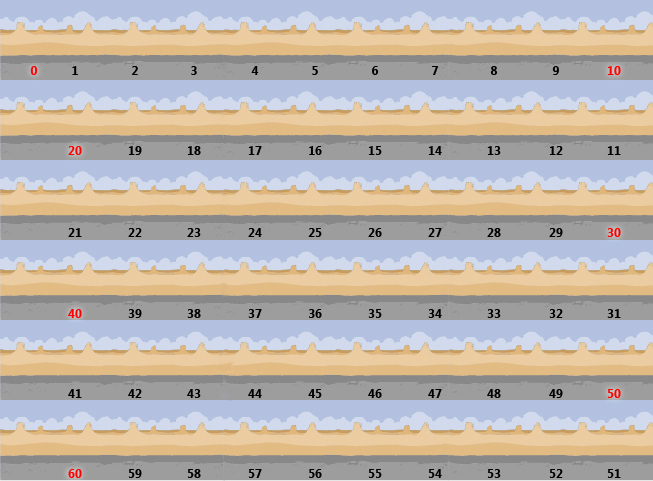
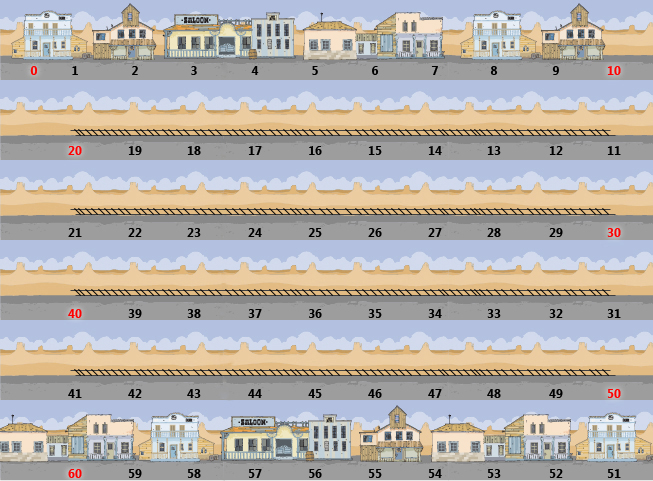
Updates graphics for contextual version.

diff --git a/PersonalContextualMathGame/frmMain.Designer.cs b/PersonalContextualMathGame/frmMain.Designer.cs
@@ -408,11 +408,10 @@ namespace MathGame
             // 
             this.destinationLabel.BackColor = System.Drawing.Color.Transparent;
             this.destinationLabel.Font = new System.Drawing.Font("Segoe UI", 9F, System.Drawing.FontStyle.Bold, System.Drawing.GraphicsUnit.Point, ((byte)(0)));
-            this.destinationLabel.Location = new System.Drawing.Point(21, 529);
+            this.destinationLabel.Location = new System.Drawing.Point(40, 570);
             this.destinationLabel.Name = "destinationLabel";
             this.destinationLabel.Size = new System.Drawing.Size(100, 23);
             this.destinationLabel.TabIndex = 25;
-            this.destinationLabel.Text = "DESTINATION";
             this.destinationLabel.TextAlign = System.Drawing.ContentAlignment.MiddleCenter;
             // 
             // mnuNewGame
@@ -534,7 +533,7 @@ namespace MathGame
             // 
             this.AutoScaleDimensions = new System.Drawing.SizeF(6F, 13F);
             this.AutoScaleMode = System.Windows.Forms.AutoScaleMode.Font;
-            this.ClientSize = new System.Drawing.Size(674, 579);
+            this.ClientSize = new System.Drawing.Size(674, 589);
             this.Controls.Add(this.destinationLabel);
             this.Controls.Add(this.btnCompare);
             this.Controls.Add(this.btnCanI);
@@ -564,8 +563,8 @@ namespace MathGame
             this.Controls.Add(this.BackgroundPicture);
             this.MainMenuStrip = this.menuStrip1;
             this.MaximizeBox = false;
-            this.MaximumSize = new System.Drawing.Size(690, 614);
-            this.MinimumSize = new System.Drawing.Size(690, 614);
+            this.MaximumSize = new System.Drawing.Size(690, 624);
+            this.MinimumSize = new System.Drawing.Size(690, 624);
             this.Name = "frmMain";
             this.Text = "Math Game";
             this.Load += new System.EventHandler(this.frmMain_Load);

diff --git a/PersonalContextualMathGame/frmMain.cs b/PersonalContextualMathGame/frmMain.cs
@@ -240,12 +240,12 @@ namespace MathGame
             #endregion
 
             #region Draw Lines
-            g.DrawLine(m_pen, new Point(20, 60), new Point(633, 60));
+            /*g.DrawLine(m_pen, new Point(20, 60), new Point(633, 60));
             g.DrawLine(m_pen, new Point(60, 140), new Point(633, 140));
             g.DrawLine(m_pen, new Point(60, 220), new Point(633, 220));
             g.DrawLine(m_pen, new Point(60, 300), new Point(633, 300));
             g.DrawLine(m_pen, new Point(60, 380), new Point(633, 380));
-            g.DrawLine(m_pen, new Point(60, 460), new Point(633, 460));
+            g.DrawLine(m_pen, new Point(60, 460), new Point(633, 460));*/
             #endregion
 
             #region Draw Player Two
